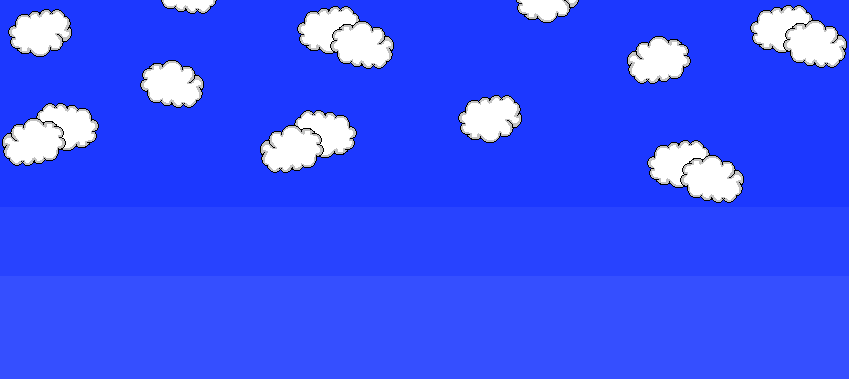
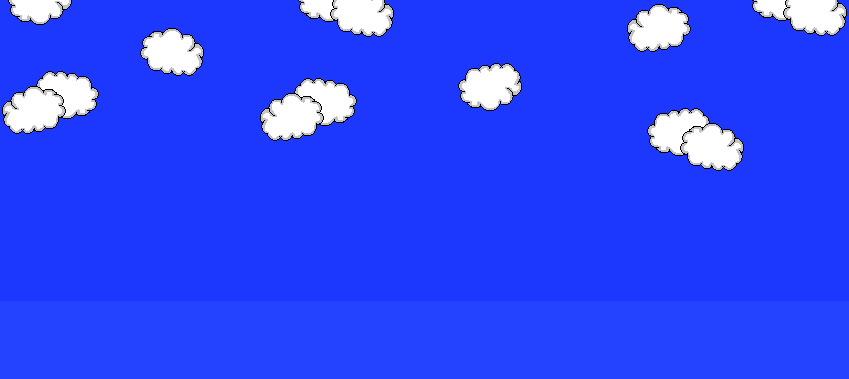
cloud update 2: the clouds strike back
evil cloud laughter, as i CLOUD as cloudly clouds clouding your clouded vision of clouding.

diff --git a/trashweb/css/mainstyle2.css b/trashweb/css/mainstyle2.css
@@ -32,7 +32,7 @@ body{
 @import url(https://fonts.googleapis.com/css?family=Pacifico);
 #canvas{
     margin-left:15%;
-    background-size: 60vw;
+    background-size: 80vw;
     background-image: url(../images/cloudy_light_blue.png) ; 
     animation-name: rotate;
     animation-duration: 36s;
